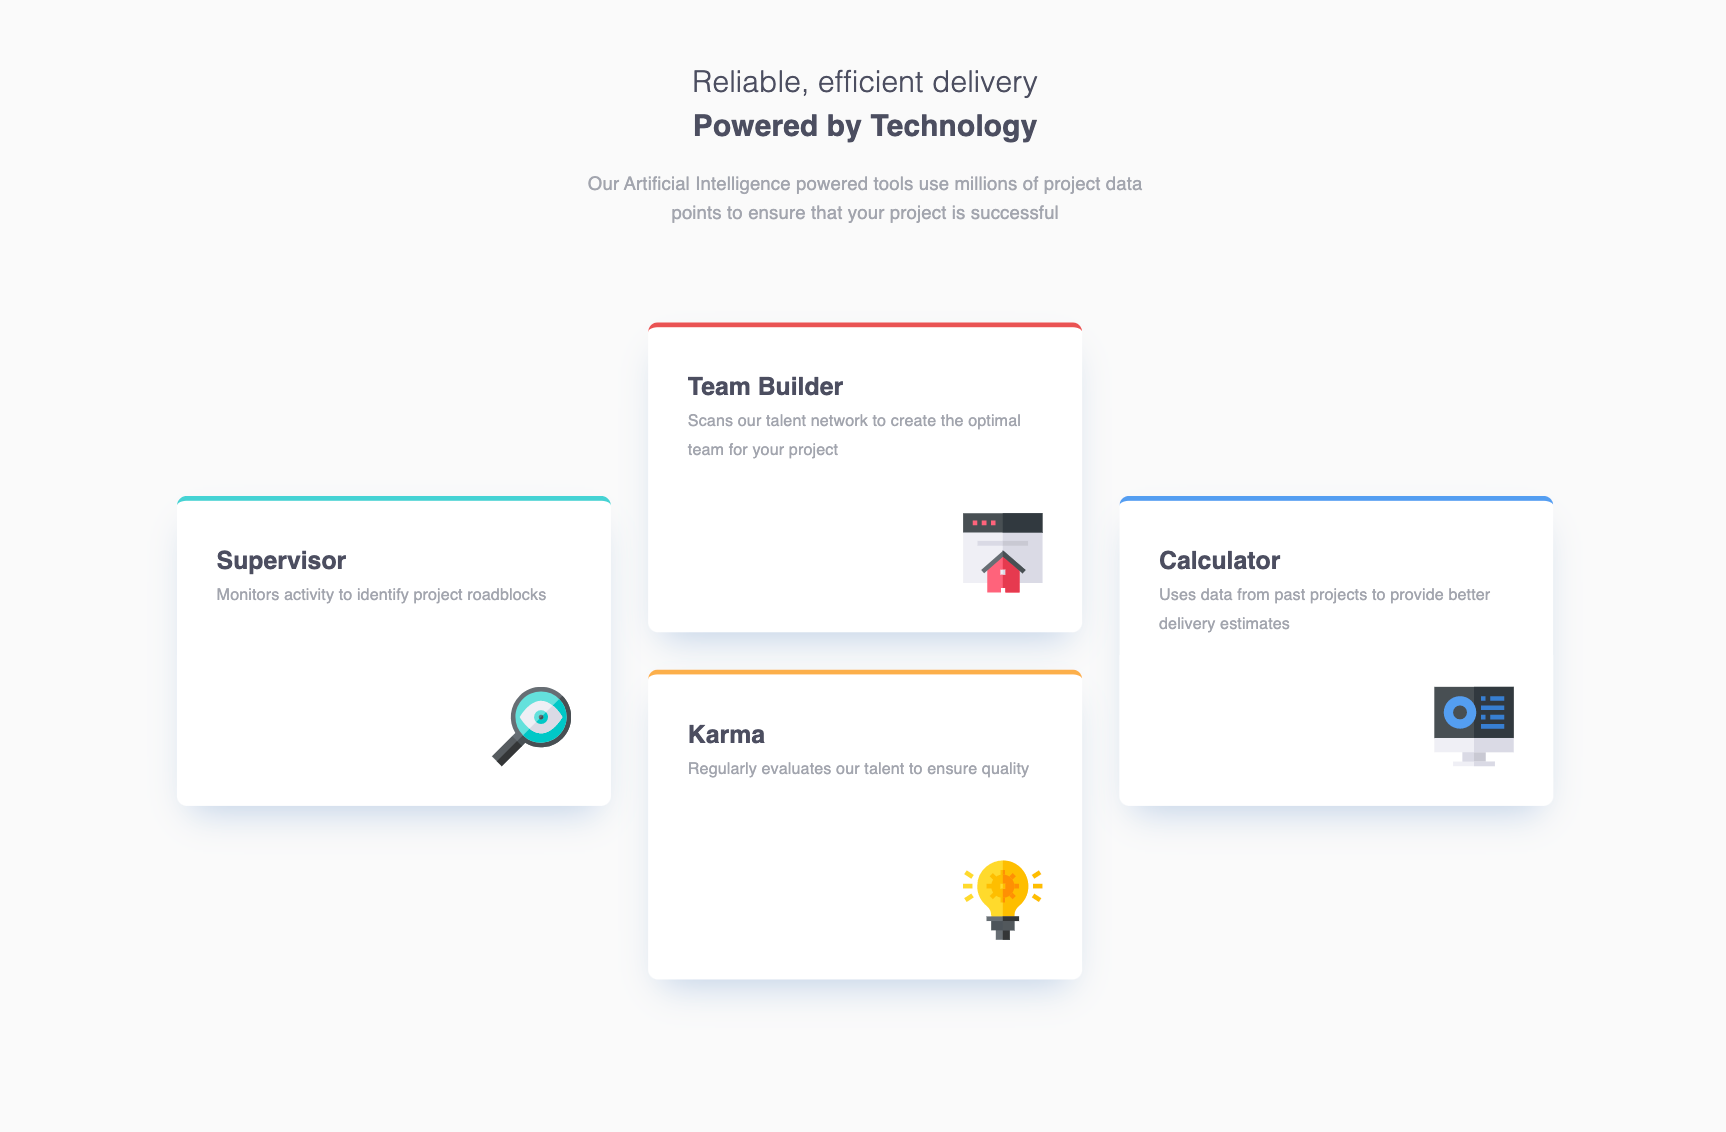
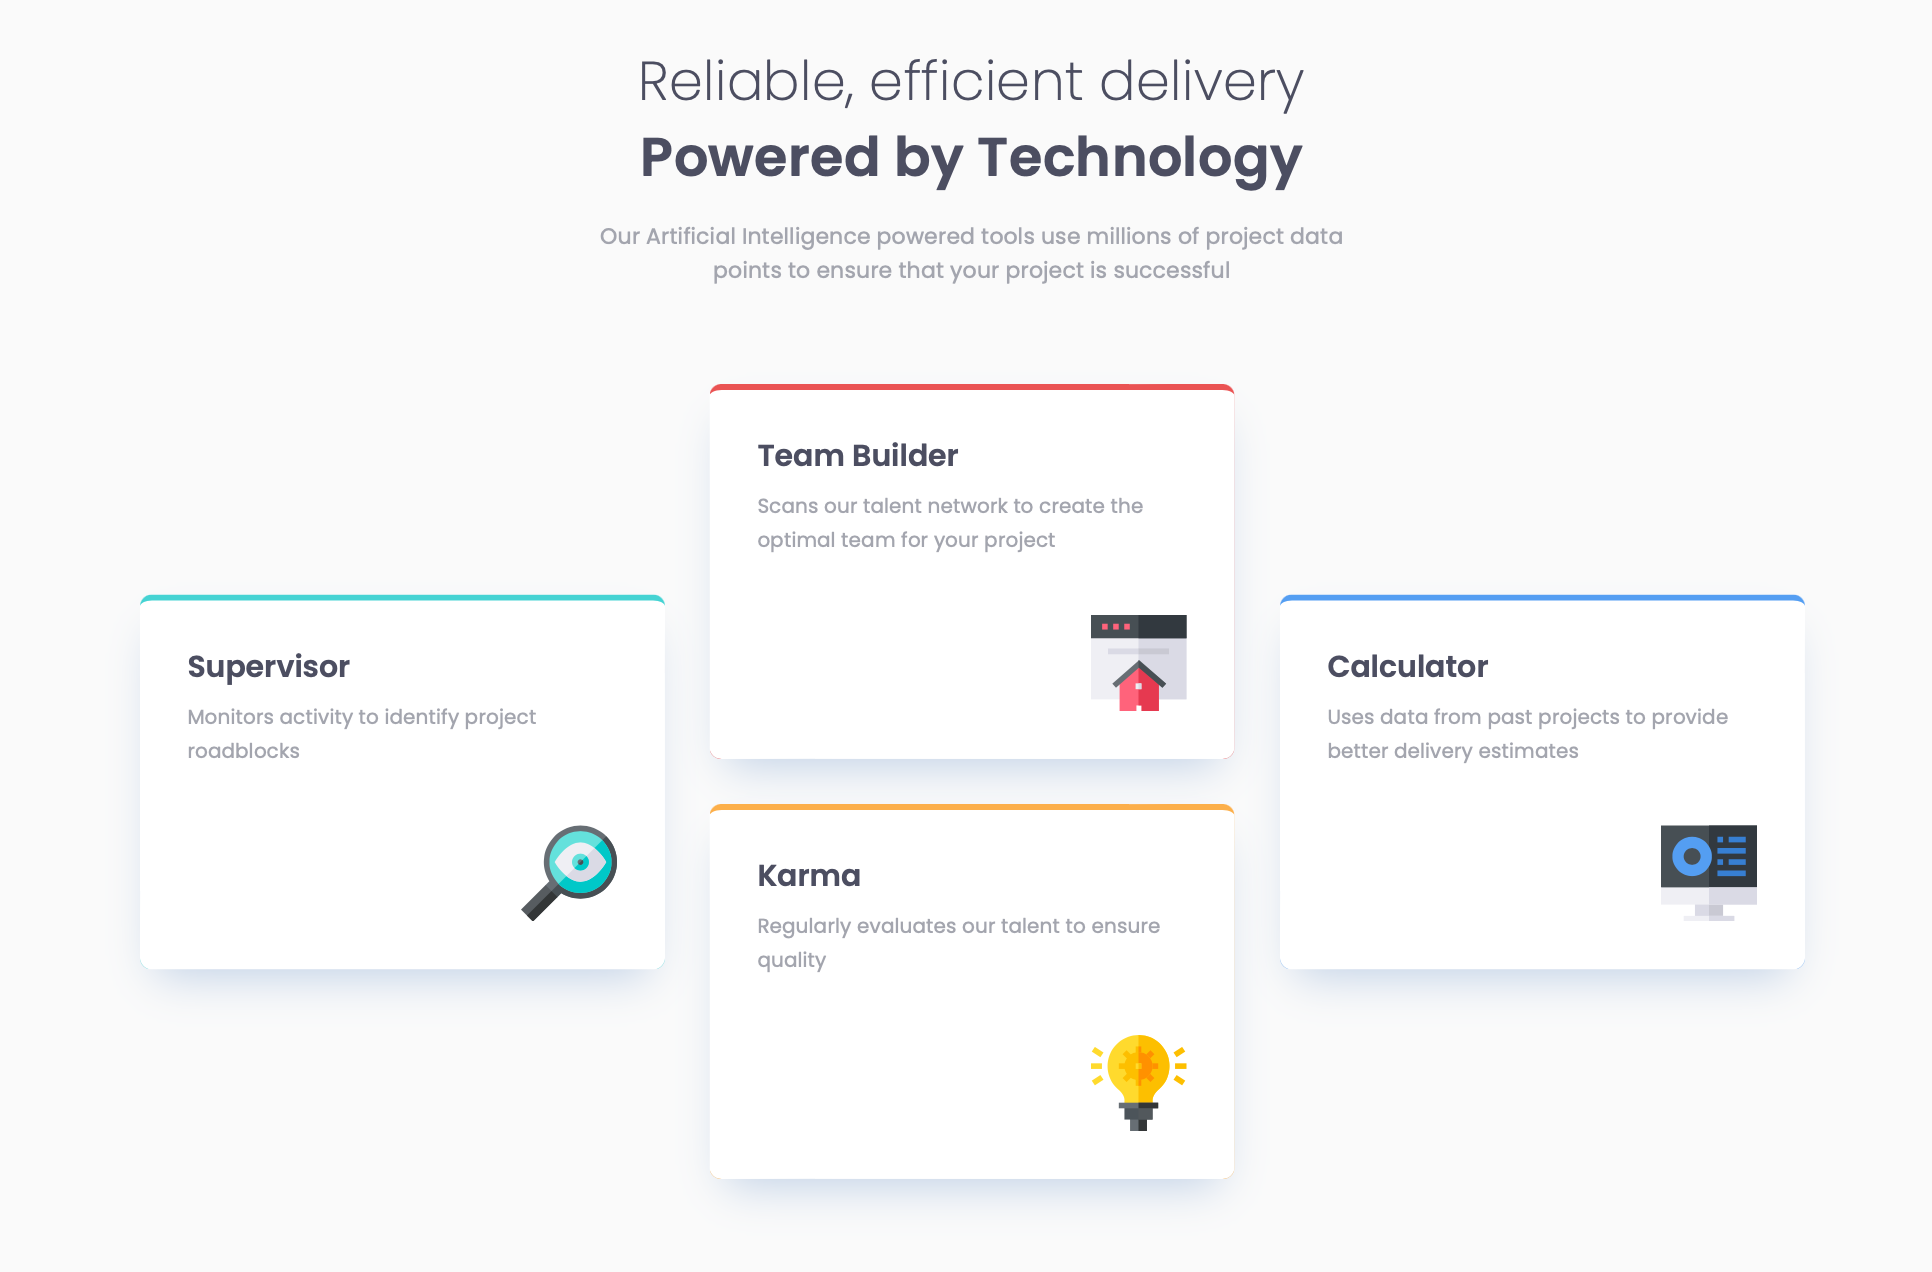
Fixing page__text and project screenshot

diff --git a/src/styles/components/page.scss b/src/styles/components/page.scss
@@ -32,7 +32,7 @@
     }
 
     &__text {
-        max-width: 470px;
+        max-width: 510px;
         margin: 0 auto 76px;
         letter-spacing: .1px;
         text-align: center;
